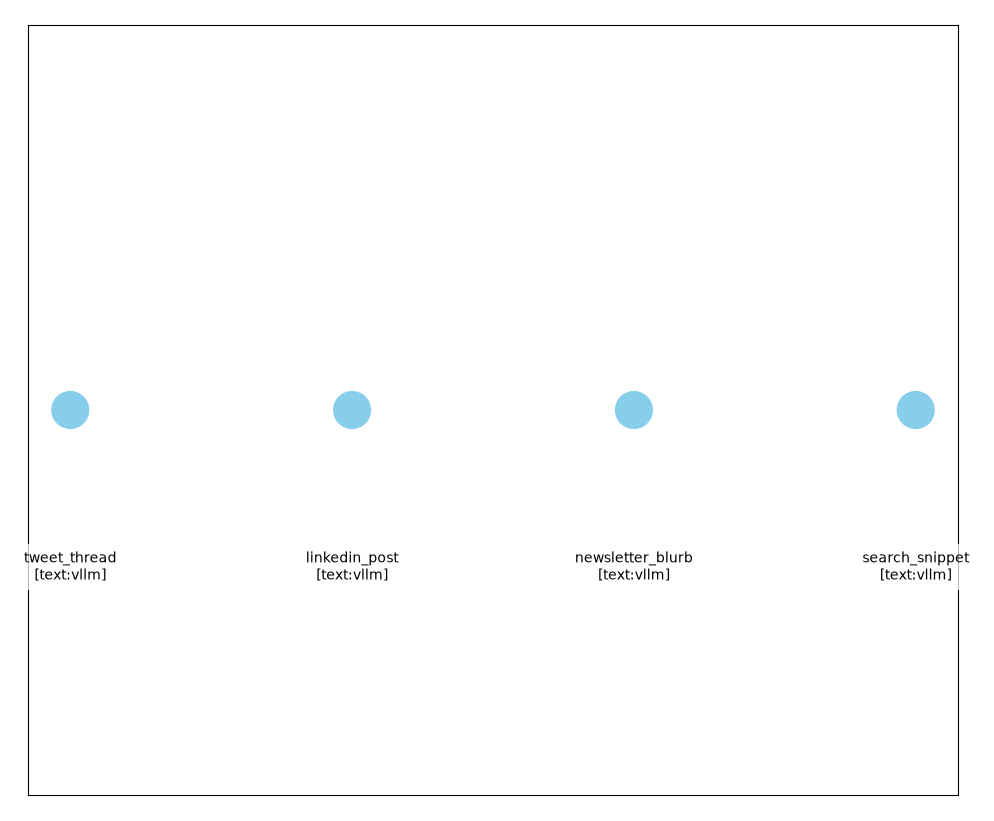
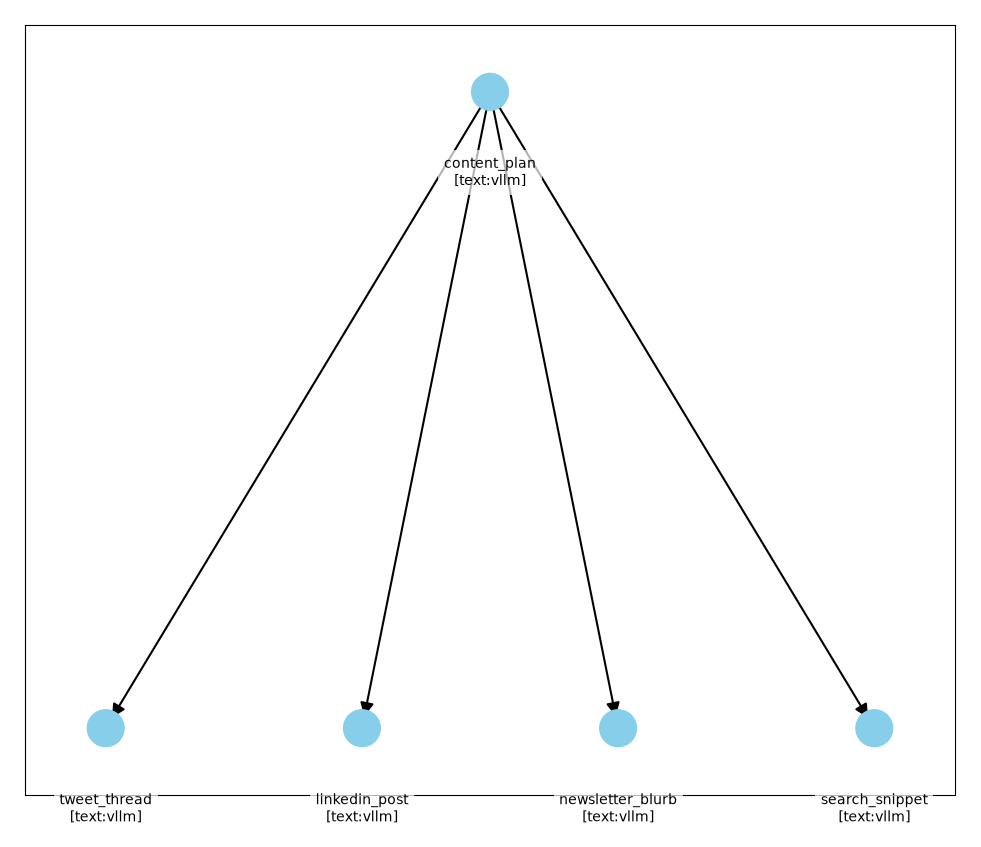
Article: add a content planner step, a download box and the 2.1.0 note
- The content reuse use case now starts with a content planner step that
  feeds key points to the four writers, so its flow picture shows how the
  work moves instead of four unconnected circles. The planner keeps only
  key points that are real sentences from the post.
- A highlighted box before Value 1 tells readers to download the skill and
  the AGENTS.md section first, with the install commands.
- The article and the kit ask for Intelli 2.1.0 or above.
- Section headings are named after the three values again.

diff --git a/intellidocs/static/agent-kit/examples/repurpose/repurpose.py b/intellidocs/static/agent-kit/examples/repurpose/repurpose.py
@@ -1,7 +1,8 @@
 """Blog post repurposer, built with Intelli as a Vibe Agent.
 
-Turns one blog post into four pieces written at the same time on a local model:
-a tweet thread, a LinkedIn post, a newsletter blurb and a search snippet.
+A content planner step first pulls the key points out of one blog post. Four writers
+then work from those points at the same time on a local model: a tweet thread, a
+LinkedIn post, a newsletter blurb and a search snippet.
 
 Usage:
     ./.venv/bin/python repurpose.py [path/to/post.md]
@@ -28,8 +29,8 @@ OUT_DIR = ROOT / "outputs"
 
 PROVIDER = "vllm"  # local Ollama through its OpenAI compatible API
 INTENT = (
-    "Turn any blog post into a tweet thread, a LinkedIn post, a newsletter blurb "
-    "and a search snippet, all written at the same time, on a local model."
+    "Plan the key points of a blog post first, then turn them into a tweet thread, a LinkedIn post, "
+    "a newsletter blurb and a search snippet, all written at the same time, on a local model."
 )
 OUTPUT_FILES = {
     "tweet_thread": "tweet_thread.md",
@@ -69,11 +70,39 @@ def make_processors(source):
             line = line[:157].rsplit(" ", 1)[0] + "..."
         return check_against_post(line)
 
-    return {"check_against_post": check_against_post, "snippet_160": snippet_160}
+    def clean_plan(text):
+        """Turn the planner's answer into key points that are real sentences from the post.
+
+        Each line the model returns is matched to the closest sentence in the post and replaced by it,
+        so a planner mistake cannot spread to the four writers. Unmatched lines are dropped. If too few
+        remain, the title and the sentences that carry numbers fill the list.
+        """
+        plain = re.sub(r"(?m)^#+\s*", "", source)
+        sentences = [x.strip() for part in plain.splitlines() for x in re.split(r"(?<=[.!?])\s+", part) if len(x.strip()) > 15]
+
+        def words(value):
+            return set(re.findall(r"[a-z0-9%]+", value.lower()))
+
+        points = []
+        for line in (text or "").splitlines():
+            line = re.sub(r"^[\s\-*#\d.)]+", "", line).strip()
+            if len(line) < 15:
+                continue
+            best = max(sentences, key=lambda sentence: len(words(line) & words(sentence)) / max(1, len(words(line) | words(sentence))))
+            overlap = len(words(line) & words(best)) / max(1, len(words(line) | words(best)))
+            if overlap >= 0.6 and best not in points:
+                points.append(best)
+        if len(points) < 3:
+            for sentence in sentences[:1] + [x for x in sentences if re.search(r"\d", x)]:
+                if sentence not in points:
+                    points.append(sentence)
+        return "\n".join("- " + point for point in points[:5])
+
+    return {"check_against_post": check_against_post, "snippet_160": snippet_160, "clean_plan": clean_plan}
 
 
 class ExactPrompt:
-    """Exact prompt for one step: the instruction, then the blog post.
+    """Exact prompt for one step: the instruction, then its input (the post or the key points).
 
     A Vibe Agent wraps each instruction in its own template, which leaves a stray
     placeholder line in the prompt. A small local model copies the post back when
@@ -137,6 +166,8 @@ async def main():
     if flow.errors:
         raise SystemExit("The flow reported errors, so nothing was saved.")
 
+    print("\n--- content_plan (key points the four writers received) ---\n" + out["content_plan"]["output"])
+
     OUT_DIR.mkdir(exist_ok=True)
     for name, filename in OUTPUT_FILES.items():
         text = out[name]["output"]
@@ -144,7 +175,7 @@ async def main():
         print(f"\n--- {name} -> outputs/{filename} ---\n{text}")
 
     picture = flow.generate_graph_img(name="repurpose_graph", save_path=".", show_legend=False)
-    print(f"\nRuntime of the four steps: {elapsed:.1f} seconds")
+    print(f"\nRuntime of the five steps: {elapsed:.1f} seconds")
     print("Picture:", picture)
 
 

diff --git a/intellidocs/blog/2026-10-04-build-ai-agents-claude-code-codex.md b/intellidocs/blog/2026-10-04-build-ai-agents-claude-code-codex.md
@@ -32,7 +32,28 @@ Three things, each with its own section below.
 
 *You ask in plain words, and a picture of what the agent built comes back.*
 
-## Connect it once
+:::tip[Download the skill first]
+
+This guide uses one skill file that works in both Claude Code and Codex, plus a short instruction file. Get them now, because every use case below depends on them:
+
+- [SKILL.md](https://www.intellinode.ai/agent-kit/SKILL.md), saved as `.agents/skills/intelli-flows/SKILL.md`
+- [AGENTS.md section](https://www.intellinode.ai/agent-kit/AGENTS.md), added to the `AGENTS.md` in your project
+
+A developer can install both from the project folder:
+
+```bash
+curl -s https://www.intellinode.ai/agent-kit/AGENTS.md >> AGENTS.md
+mkdir -p .agents/skills/intelli-flows .claude/skills
+curl -s https://www.intellinode.ai/agent-kit/SKILL.md -o .agents/skills/intelli-flows/SKILL.md
+ln -s ../../.agents/skills/intelli-flows .claude/skills/intelli-flows
+pip install -U "intelli[visual]"
+```
+
+Use Intelli 2.1.0 or above, which fixes two issues these tests found. `pip show intelli` prints your version. No developer nearby? The next section has a request that makes your coding agent do the same install.
+
+:::
+
+## Value 1: Connect IntelliNode to Claude Code or Codex
 
 A coding agent writes code from what it reads first, which is the instruction file in your project. Claude Code and Codex both load a file called AGENTS.md at the start of a session. IntelliNode publishes a ready-made section for it, plus a skill, a longer how-to the agent opens when a task calls for it.
 
@@ -43,7 +64,7 @@ Set this project up to build with Intelli:
 1. Download https://www.intellinode.ai/agent-kit/AGENTS.md and add its content to AGENTS.md in this repo.
 2. Download https://www.intellinode.ai/agent-kit/SKILL.md and save it as .agents/skills/intelli-flows/SKILL.md.
    Link that folder to .claude/skills/intelli-flows so Claude Code finds it too.
-3. Run pip install "intelli[visual]".
+3. Run pip install -U "intelli[visual]" and tell me the installed version. It should be 2.1.0 or above.
 Tell me when it is done and what you added.
 ```
 
@@ -64,7 +85,7 @@ Step 3 is there because of our tests. More on that below.
 
 The rest is about forty lines of rules, most of them mistakes that fail without an error message. Short files like this work. When [LangChain tested Claude Code](https://www.langchain.com/blog/how-to-turn-claude-code-into-a-domain-specific-coding-agent) on its own library, a condensed guide beat docs access through an MCP server on its own, and on one task it cost about 2.5 times less.
 
-## The agent builds a graph, not a script
+## Value 2: The Intelli graph gives the coding agent structure
 
 Ask a coding agent for a tool with no framework and you get a one-off script, shaped differently every time. With Intelli it builds a flow: small steps with one job each, wired into a graph.
 
@@ -78,7 +99,7 @@ flow = Flow(tasks=tasks, map_paths={"features": ["brief"], "fixes": ["brief"], "
 
 You don't have to read it. Intelli draws it.
 
-## You review a picture
+## Value 3: Review the flow picture, not the code
 
 Every flow can save a picture of itself, and the instruction file makes the agent do that each time. It's what turns generated code from a black box into a white box. This one is the release brief tool:
 
@@ -171,36 +192,37 @@ without planning. Run it on a local model with a short sample blog post. Then sh
 and explain it in plain language.
 ```
 
-<img src="/img/articles/flows/repurpose_graph.png" width="560" loading="lazy" alt="Flow picture drawn by Intelli: four steps on one row named tweet thread, linkedin post, newsletter blurb and search snippet, with no arrows" />
+The first picture was four circles in a row with no lines between them. It was accurate, because each writer got the post directly, but it told a reviewer almost nothing. So we asked for a change:
 
-*Four writers on one row with no arrows: each gets the post directly, and all four work at once.*
+```text
+Add a first step that reads the post and picks its key points. Have the four writers work from those
+points. Then redraw the flow picture.
+```
 
-A Vibe Agent builds the flow from a description instead of from code, so the plan is data. This is one of the four steps as the agent wrote it:
+<img src="/img/articles/flows/repurpose_graph.png" width="560" loading="lazy" alt="Flow picture drawn by Intelli: a content plan step at the top with arrows to four steps named tweet thread, linkedin post, newsletter blurb and search snippet" />
+
+*A content planner reads the post first and feeds the same key points to four writers.*
+
+Now the picture shows how the work moves. A Vibe Agent builds the flow from a description instead of from code, so the plan is data. This is the wiring you see above:
 
 ```json
 {
-  "name": "tweet_thread",
-  "desc": "Rewrite the blog post below as a tweet thread of 4 tweets. Number them 1/4, 2/4, 3/4 and 4/4, one tweet per line. Each tweet is one or two short sentences, under 280 characters. Use only facts and numbers from the blog post. Output only the tweets.",
-  "post_process": "check_against_post",
-  "agent": {
-    "agent_type": "text",
-    "provider": "vllm",
-    "mission": "You are a social media editor who writes clear tweet threads from blog posts.",
-    "model_params": {
-      "model": "qwen2.5:0.5b",
-      "temperature": 0.3,
-      "max_tokens": 320
-    },
-    "options": {
-      "baseUrl": "${ENV:OLLAMA_BASE_URL}"
-    }
+  "map_paths": {
+    "content_plan": [
+      "tweet_thread",
+      "linkedin_post",
+      "newsletter_blurb",
+      "search_snippet"
+    ]
   }
 }
 ```
 
-Intelli saves that plan. On the second run the tool loaded it and went straight to work in about three seconds, with no planning step.
+Intelli saves that plan. On the second run the tool loaded it and went straight to work in about four seconds, with no planning step.
 
-Here the first run was the bad one. It reported no errors, and two of the four pieces were the blog post copied back word for word. After tracing that to the default prompt format, the agent replaced it with its own. From then on the drafts were usable but rough. Asked for four tweets, the model wrote seven. The newsletter blurb invented "80%", which the tool's own check flagged, and it got two other details wrong that the check missed.
+Two things went wrong on the way. In the first test, two of the four pieces were the blog post copied back word for word, and no error was reported. The agent traced that to the default prompt format and replaced it. Then the new planner step misstated the post's numbers, and all four writers repeated the mistake. The tool now keeps only key points that are real sentences from the post.
+
+A planner mistake spreads to every step after it, so the planner is the first step to move to a stronger model. The drafts are still rough on a tiny one: a thread claimed "90%" of tickets, a figure the post never mentions, and the tool's own check flagged it.
 
 ## Move one step to a stronger model
 
@@ -234,17 +256,7 @@ For you, the lesson is short. Review the picture for structure and the agent's r
 
 ## For developers
 
-The kit is two files: an [AGENTS.md section](https://www.intellinode.ai/agent-kit/AGENTS.md) and a [skill](https://www.intellinode.ai/agent-kit/SKILL.md). Both point to the docs index at [www.intellinode.ai/llms.txt](https://www.intellinode.ai/llms.txt), written in the [llms.txt format](https://llmstxt.org/). To install by hand:
-
-```bash
-curl -s https://www.intellinode.ai/agent-kit/AGENTS.md >> AGENTS.md
-mkdir -p .agents/skills/intelli-flows .claude/skills
-curl -s https://www.intellinode.ai/agent-kit/SKILL.md -o .agents/skills/intelli-flows/SKILL.md
-ln -s ../../.agents/skills/intelli-flows .claude/skills/intelli-flows
-pip install "intelli[visual]"
-```
-
-The `visual` extra installs the drawing library. Without it the flow runs and the picture step fails.
+The kit is two files: an [AGENTS.md section](https://www.intellinode.ai/agent-kit/AGENTS.md) and a [skill](https://www.intellinode.ai/agent-kit/SKILL.md). Both point to the docs index at [www.intellinode.ai/llms.txt](https://www.intellinode.ai/llms.txt), written in the [llms.txt format](https://llmstxt.org/). The install commands are in the box near the top. The `visual` extra installs the drawing library. Without it the flow runs and the picture step fails.
 
 Codex reads AGENTS.md by default; its [AGENTS.md guide](https://learn.chatgpt.com/docs/agent-configuration/agents-md) covers nested files. Claude Code reads it since v2.1.277 when the project has no CLAUDE.md. If it has one, put `@AGENTS.md` at the top, as the [memory docs](https://code.claude.com/docs/en/memory) describe. We checked these paths against both tools' docs, not in live sessions.
 
@@ -254,7 +266,7 @@ Codex reads AGENTS.md by default; its [AGENTS.md guide](https://learn.chatgpt.co
 | Project skills folder | `.claude/skills/<name>/SKILL.md` | `.agents/skills/<name>/SKILL.md` |
 | Invoke the skill | `/intelli-flows` | `$intelli-flows` |
 
-The code the test agents wrote is published as is: [triage](https://www.intellinode.ai/agent-kit/examples/triage/triage.py), [release brief](https://www.intellinode.ai/agent-kit/examples/release_brief/release_brief.py) and [content reuse](https://www.intellinode.ai/agent-kit/examples/repurpose/repurpose.py) with its [plan](https://www.intellinode.ai/agent-kit/examples/repurpose/repurpose_spec.json). We ran each one again from a clean folder before publishing. The [async flow docs](/docs/python/flows/async-flow) and the [Vibe Agents docs](/docs/python/vibe-agents) cover the library itself.
+The code the test agents wrote is published, with the planner step added to the third: [triage](https://www.intellinode.ai/agent-kit/examples/triage/triage.py), [release brief](https://www.intellinode.ai/agent-kit/examples/release_brief/release_brief.py) and [content reuse](https://www.intellinode.ai/agent-kit/examples/repurpose/repurpose.py) with its [plan](https://www.intellinode.ai/agent-kit/examples/repurpose/repurpose_spec.json). We ran each one again from a clean folder before publishing. The [async flow docs](/docs/python/flows/async-flow) and the [Vibe Agents docs](/docs/python/vibe-agents) cover the library itself.
 
 ## FAQ
 

diff --git a/intellidocs/static/agent-kit/AGENTS.md b/intellidocs/static/agent-kit/AGENTS.md
@@ -7,7 +7,7 @@ When the user asks for an AI tool, follow this sequence. The user may not read c
 4. Save the flow picture: `flow.generate_graph_img(name="<tool>_graph", save_path=".", show_legend=False)`.
 5. Report in plain language: what each step does, which model each step uses (say "a local model on your computer" for vllm), what you checked and what is still weak, and where the picture and the output files are.
 
-Install with `pip install "intelli[visual]"` (2.0.3; the visual extra adds matplotlib for flow pictures), in the project's virtual environment if it has one. Import from `intelli.flow`:
+Install with `pip install -U "intelli[visual]"`, in the project's virtual environment if it has one. The visual extra adds matplotlib for flow pictures. Use version 2.1.0 or above (`pip show intelli`); these rules were checked on 2.0.3 and still hold. Import from `intelli.flow`:
 `from intelli.flow import Agent, Task, TextTaskInput, Flow, SequenceFlow, DynamicConnector, Memory, CustomAgent, VibeAgent`
 
 Agents and tasks
